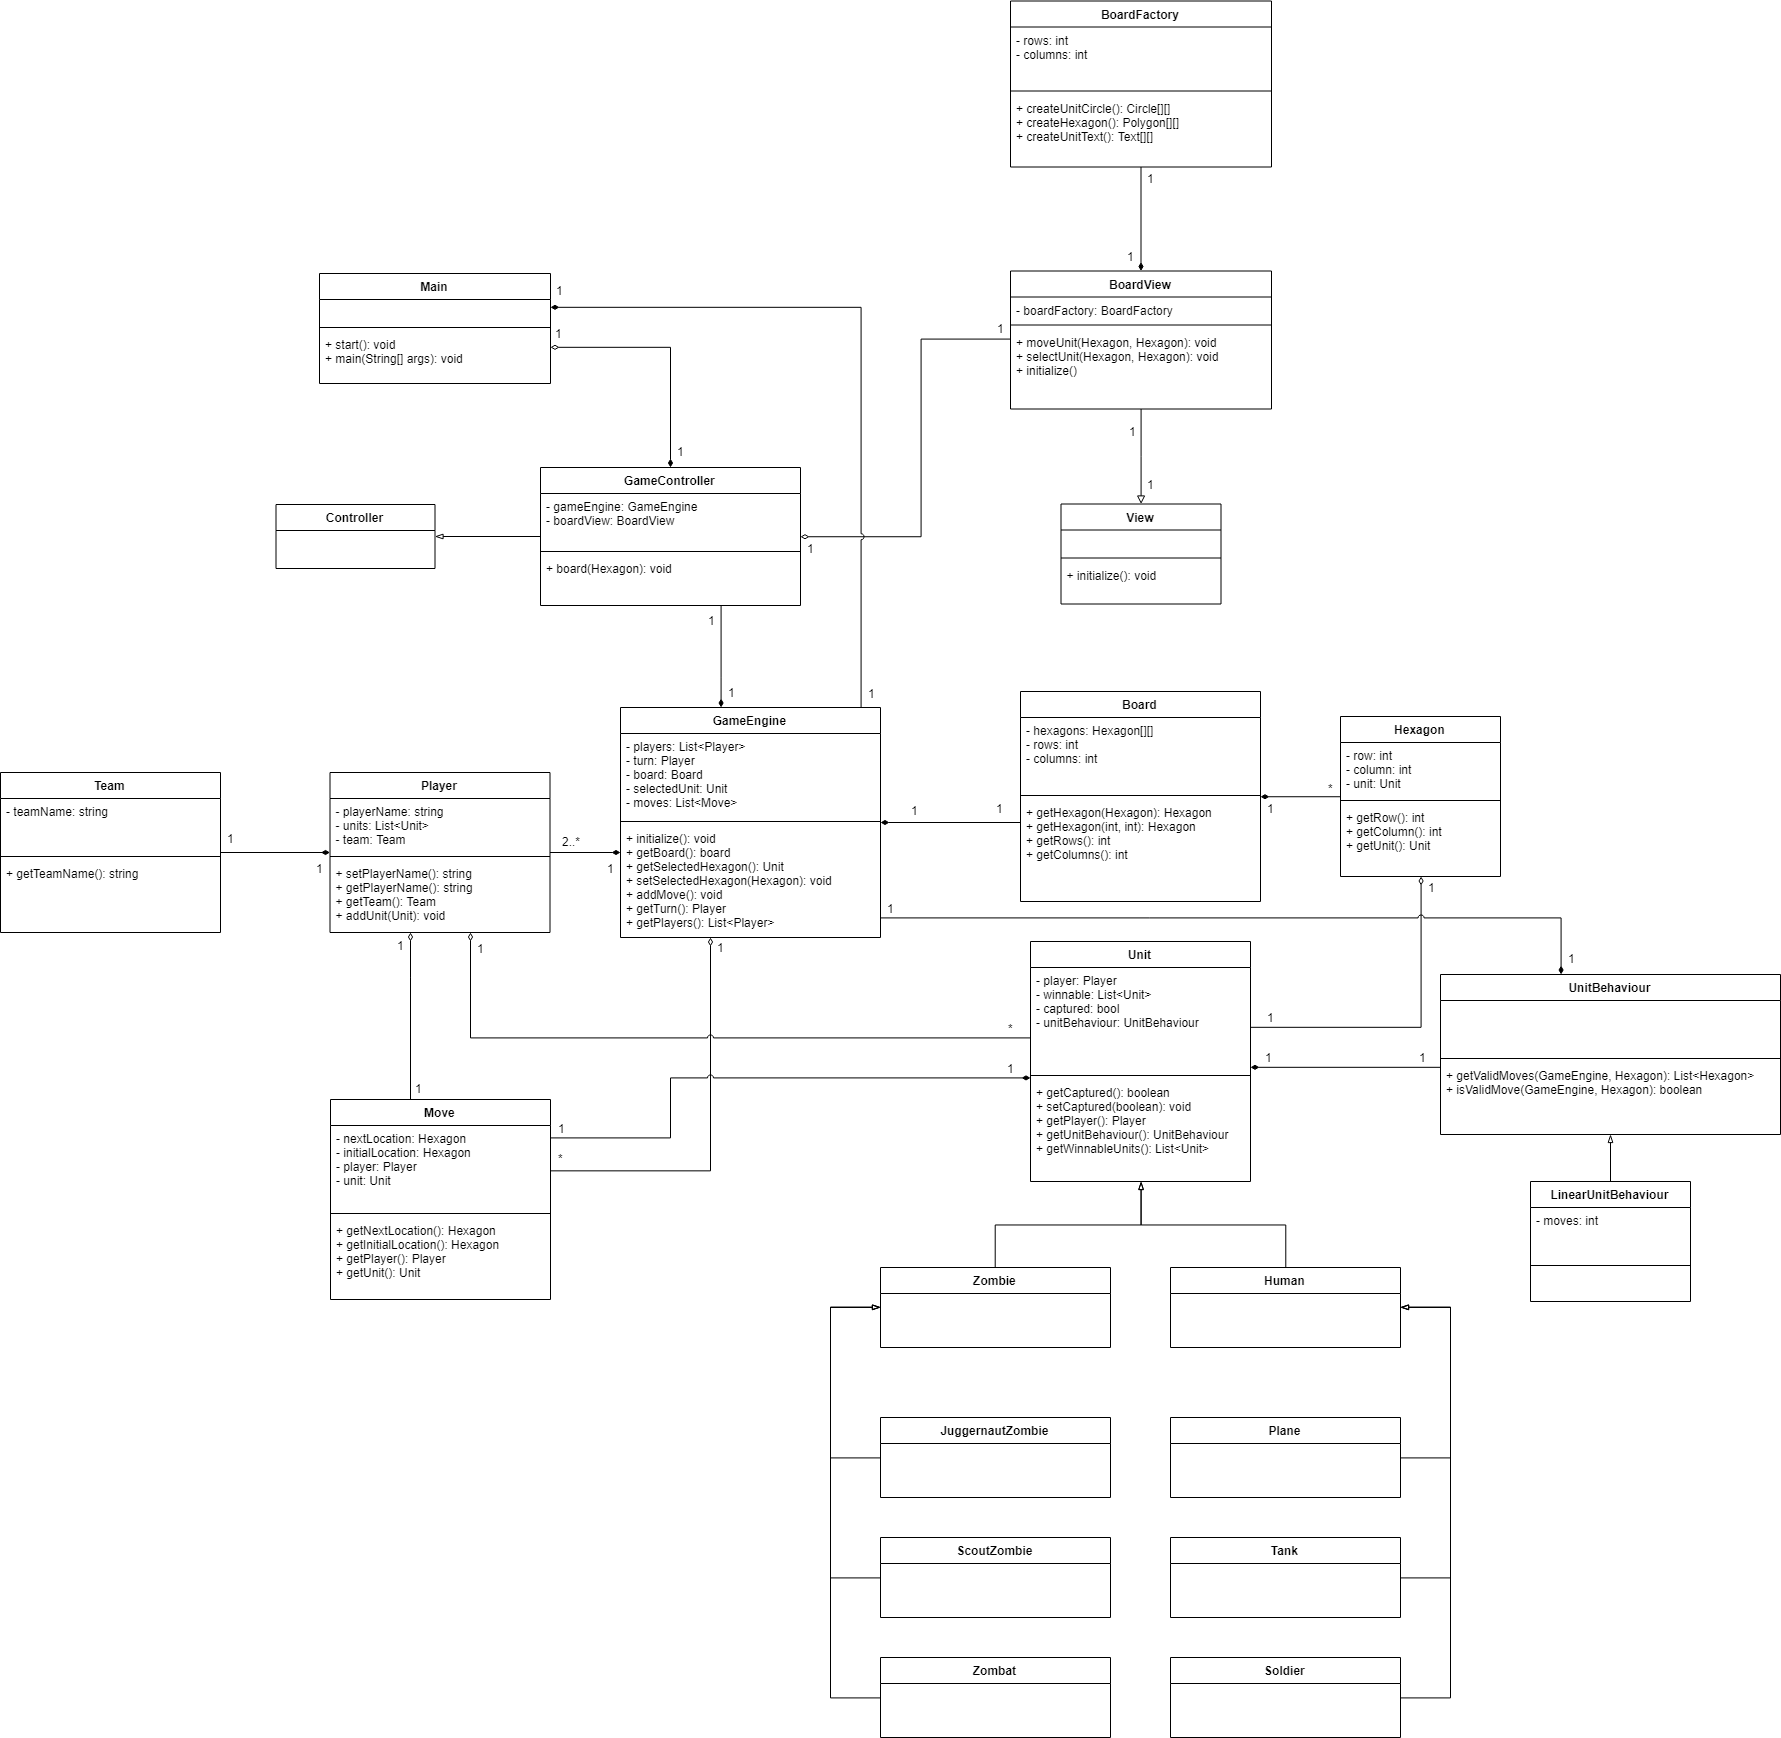
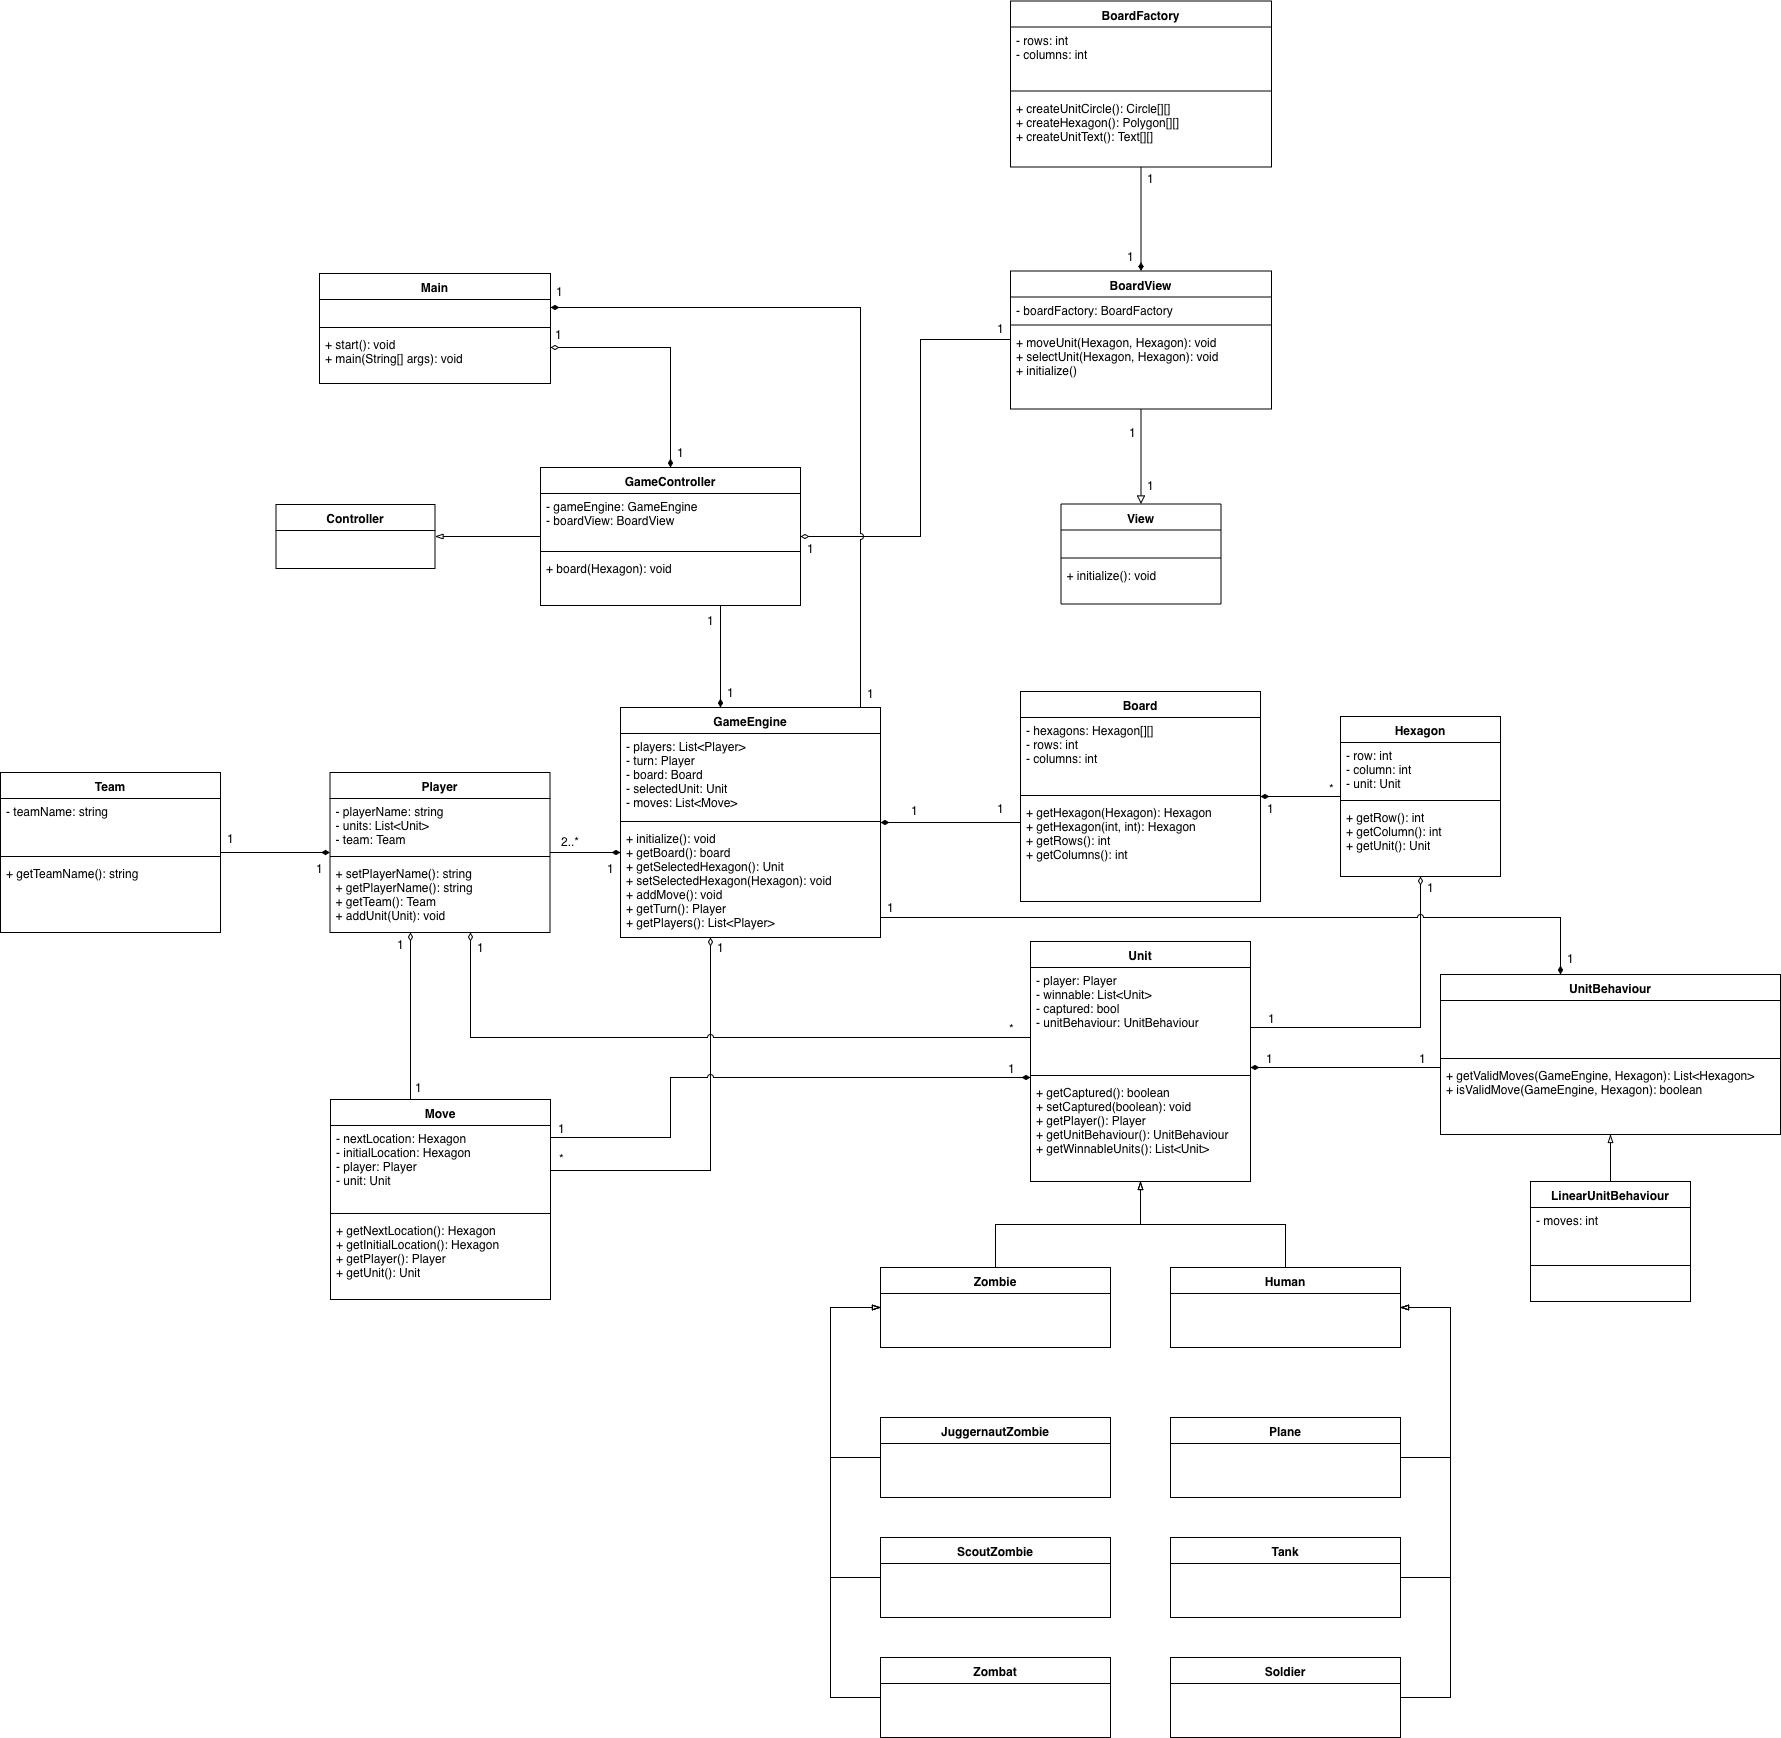
Some more cleaned and updated class diagram.

diff --git a/src/main/java/oosd/views/BoardView.java b/src/main/java/oosd/views/BoardView.java
@@ -52,7 +52,7 @@ public class BoardView extends View {
         selectionPieces.getPiece(selectedPiece).setVisible(false);
         unitPieces.getPiece(selectedPiece).setVisible(false);
         unitPieces.getPiece(clickedPiece).setVisible(true);
-        unitPieces.getPiece(clickedPiece).setFill(boardFactory.createViewImage(clickedPiece.getUnit().getImage()));
+        unitPieces.getPiece(clickedPiece).setFill(boardFactory.createImage(clickedPiece.getUnit().getImage()));
         playerTurn.setText("Player turn: " + gameEngine.getTurn().getPlayerName());
     }
 
@@ -86,12 +86,12 @@ public class BoardView extends View {
                 Piece piece = board.getPiece(xIndex, yIndex);
 
                 if (piece.getUnit() != null) {
-                    unitPieces.getPiece(xIndex, yIndex).setFill(boardFactory.createViewImage(piece.getUnit().getImage()));
+                    unitPieces.getPiece(xIndex, yIndex).setFill(boardFactory.createImage(piece.getUnit().getImage()));
                 } else {
                     unitPieces.getPiece(xIndex, yIndex).setVisible(false);
                 }
 
-                backgroundPieces.getPiece(xIndex, yIndex).setFill(boardFactory.createViewImage("grass"));
+                backgroundPieces.getPiece(xIndex, yIndex).setFill(boardFactory.createImage("grass"));
                 backgroundPieces.getPiece(xIndex, yIndex).setStrokeWidth(2);
                 backgroundPieces.getPiece(xIndex, yIndex).setStroke(Paint.valueOf("#706c1c"));
 

diff --git a/src/main/java/oosd/factories/ViewComponentFactory.java b/src/main/java/oosd/factories/ViewComponentFactory.java
@@ -27,7 +27,7 @@ public class ViewComponentFactory {
         this.rows = rows;
     }
 
-    public ImagePattern createViewImage(String imageName) {
+    public ImagePattern createImage(String imageName) {
         Image image = new Image(View.class.getResource(imageName + ".png").toString());
         return new ImagePattern(image);
     }

diff --git a/src/main/java/oosd/models/GameEngine.java b/src/main/java/oosd/models/GameEngine.java
@@ -17,6 +17,9 @@ public class GameEngine {
     private List<Player> players;
     private Iterator<Player> playersIterator;
 
+    // TODO: implement moves
+//    private List<Move> moves;
+
     public GameEngine(Board board, List<Player> players) {
         this.board = board;
         this.players = players;

diff --git a/README.md b/README.md
@@ -67,7 +67,7 @@ We've produced a few class diagrams to show our iterative process in developing 
 
 ### Current class diagram
 
-![Class diagram V8](./diagrams/ClassDiagrams-V8.png)
+![Class diagram V8](./diagrams/ClassDiagrams-V9.png)
 
 ### Mouse click handling on board sequence diagram
 
